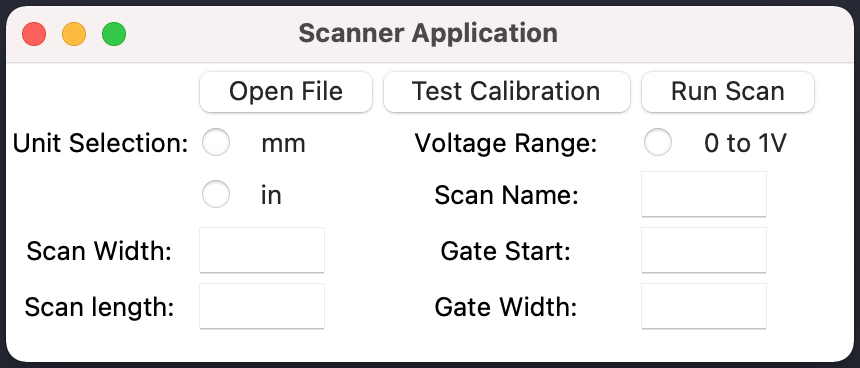
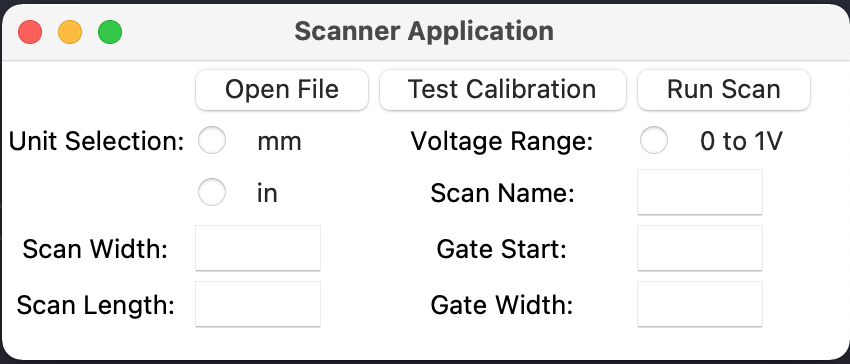
Button Update

diff --git a/main.py b/main.py
@@ -95,7 +95,7 @@ width_label.grid(row=5, column=0)
 width_textbox = tk.Entry(root, width=7)
 width_textbox.grid(row=5, column=1, sticky=tk.W)
 
-length_label = tk.Label(root, text='Scan length:')
+length_label = tk.Label(root, text='Scan Length:')
 length_label.grid(row=6, column=0)
 
 length_textbox = tk.Entry(root, width=7)
